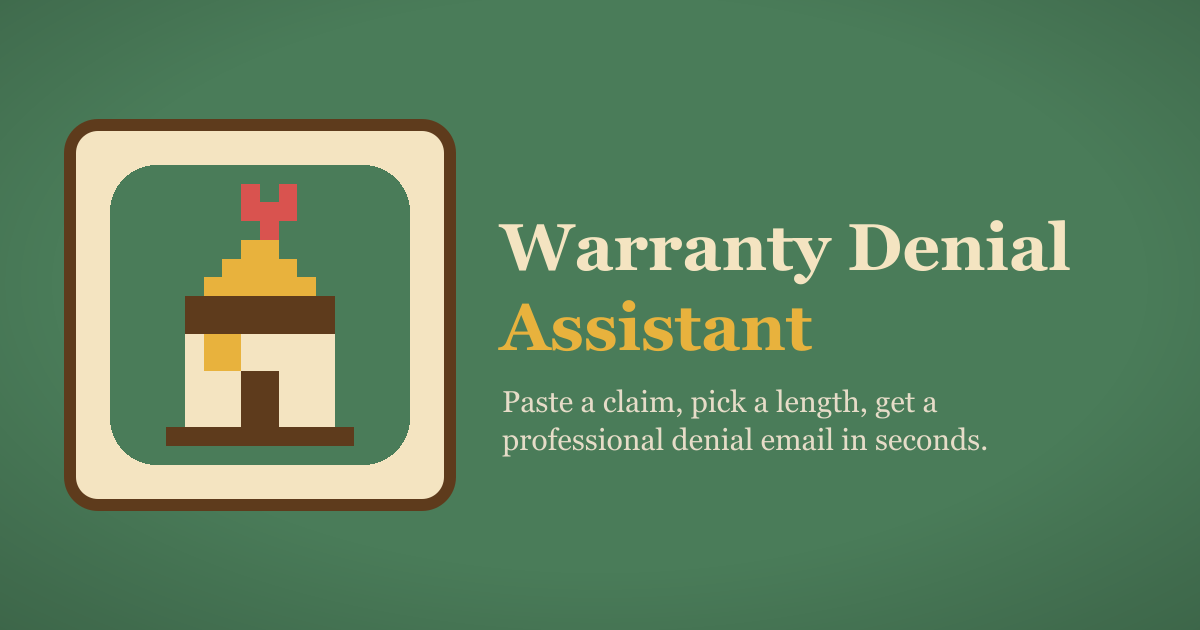
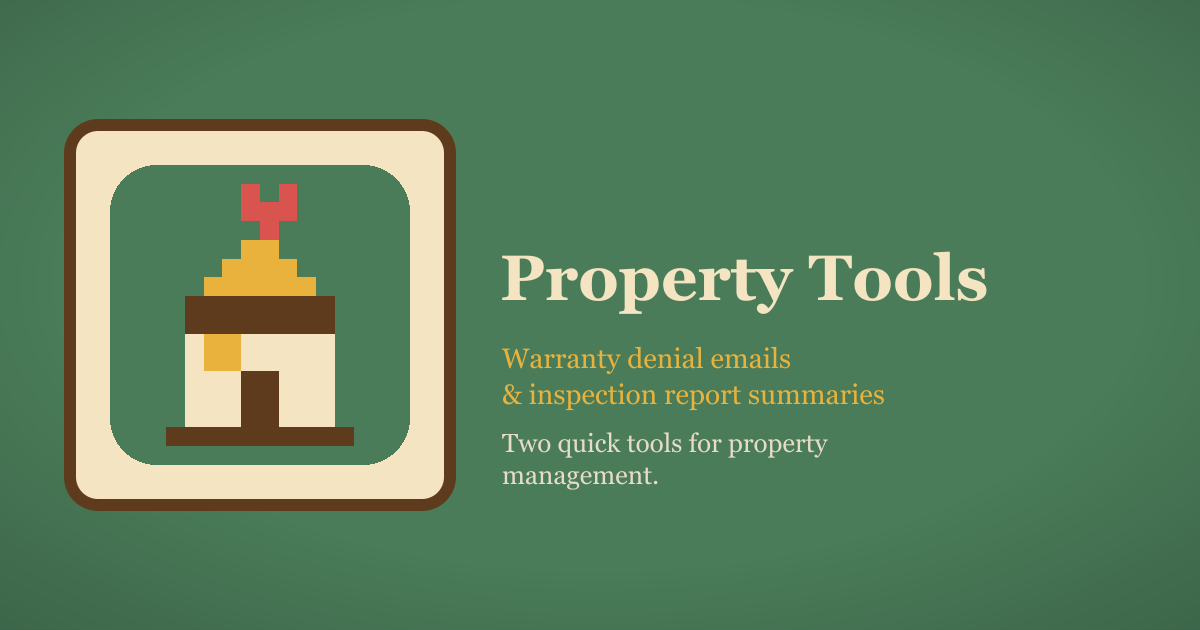
Rename site to "Property Tools" now that it covers two tools
Header, tab title, meta/OG/Twitter tags, footer line, and the share
preview image all referenced "Warranty Denial Assistant" specifically,
which stopped fitting once the Inspection Report Summary tab was
added. Went with a role-neutral name after "Front Desk Toolkit"
turned out not to match how she actually works.

Changed region(s): [[0.4008, 0.3317, 0.8942, 0.7841]]

diff --git a/index.html b/index.html
@@ -3,8 +3,8 @@
 <head>
   <meta charset="UTF-8" />
   <meta name="viewport" content="width=device-width, initial-scale=1.0" />
-  <title>Warranty Denial Assistant</title>
-  <meta name="description" content="Paste a warranty claim, pick a length, and get a professional, empathetic denial email drafted in seconds." />
+  <title>Property Tools</title>
+  <meta name="description" content="Write warranty denial emails and summarize home inspection reports — two quick tools for property management." />
 
   <!-- Favicons -->
   <link rel="icon" type="image/svg+xml" href="/favicon.svg" />
@@ -14,16 +14,16 @@
 
   <!-- Open Graph / link previews (iMessage, Slack, etc.) -->
   <meta property="og:type" content="website" />
-  <meta property="og:title" content="Warranty Denial Assistant" />
-  <meta property="og:description" content="Paste a warranty claim, pick a length, and get a professional, empathetic denial email drafted in seconds." />
+  <meta property="og:title" content="Property Tools" />
+  <meta property="og:description" content="Write warranty denial emails and summarize home inspection reports — two quick tools for property management." />
   <meta property="og:image" content="/og-image.png" />
   <meta property="og:image:width" content="1200" />
   <meta property="og:image:height" content="630" />
 
   <!-- Twitter Card -->
   <meta name="twitter:card" content="summary_large_image" />
-  <meta name="twitter:title" content="Warranty Denial Assistant" />
-  <meta name="twitter:description" content="Paste a warranty claim, pick a length, and get a professional, empathetic denial email drafted in seconds." />
+  <meta name="twitter:title" content="Property Tools" />
+  <meta name="twitter:description" content="Write warranty denial emails and summarize home inspection reports — two quick tools for property management." />
   <meta name="twitter:image" content="/og-image.png" />
 
   <link rel="preconnect" href="https://fonts.googleapis.com">
@@ -38,7 +38,7 @@
   <main class="wrap">
     <header class="header">
       <div class="header__icon" aria-hidden="true">🏡</div>
-      <h1 class="header__title">Warranty Denial Assistant</h1>
+      <h1 class="header__title">Property Tools</h1>
       <div class="header__icon" aria-hidden="true">💌</div>
     </header>
 
@@ -187,7 +187,7 @@
     </div>
 
     <footer class="footer">
-      <p>Made for the front desk, styled like the farm. 🚜</p>
+      <p>Made for property management, styled like the farm. 🚜</p>
     </footer>
   </main>
 

diff --git a/README.md b/README.md
@@ -1,4 +1,4 @@
-# Warranty Denial Assistant 🏡💌
+# Property Tools 🏡💌
 
 A small, cozy internal tool for a property management employee, styled like a pixel-art farm. Two tabs:
 
